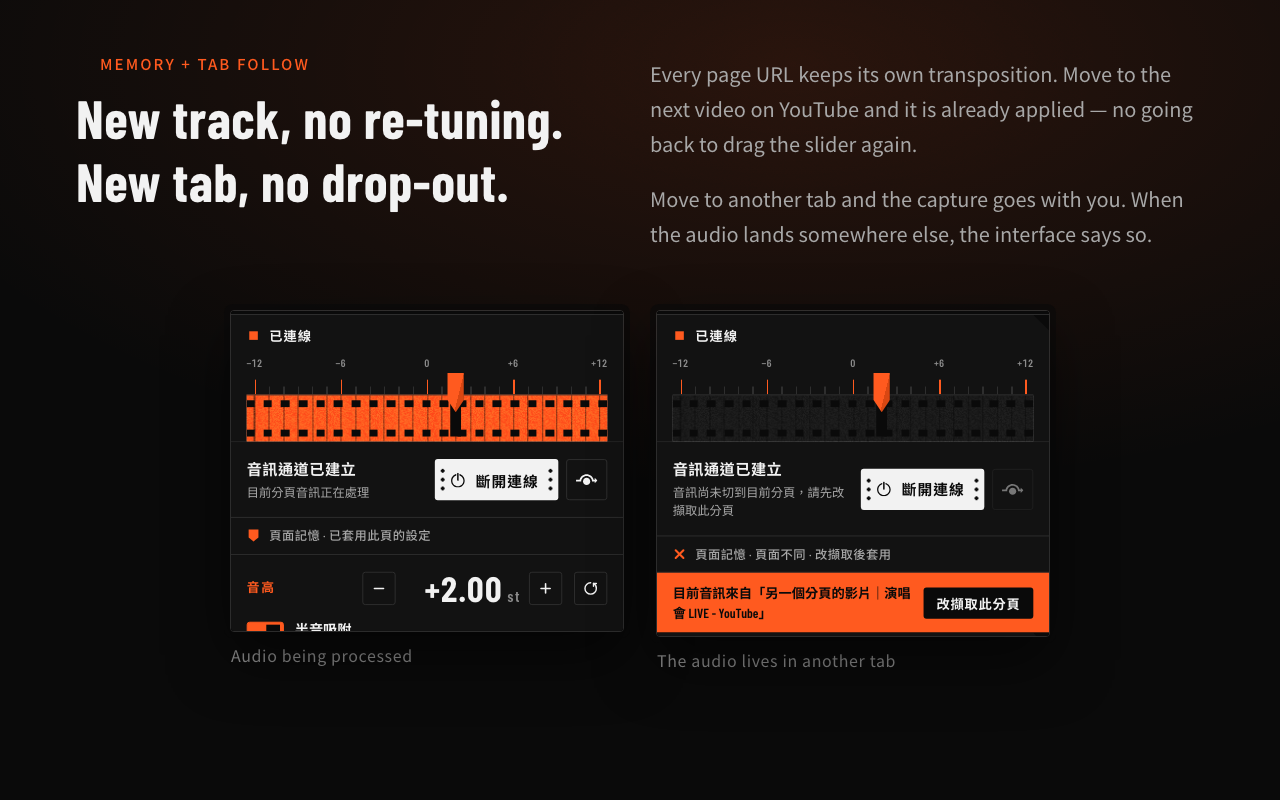
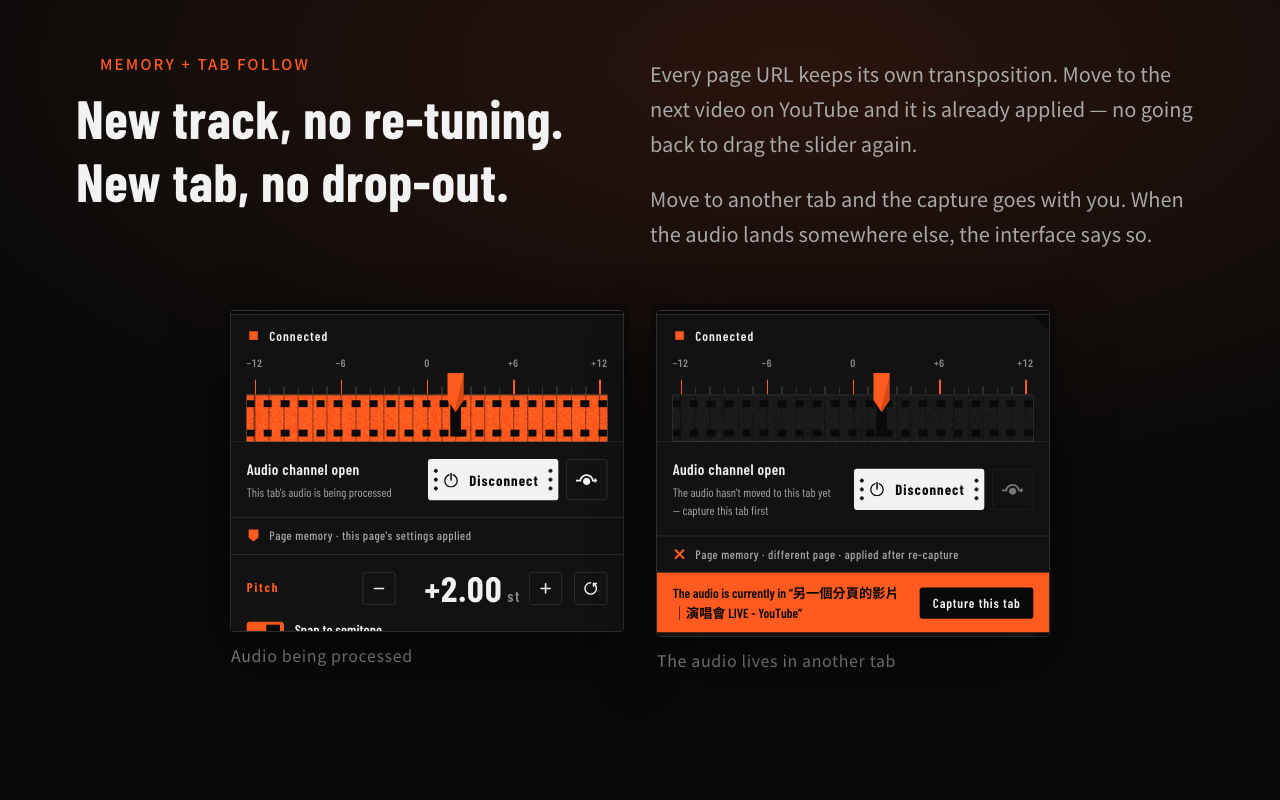
docs(readme): 兩份 README 重排，英文圖改用英文介面
## 英文版 README 之前配的是中文介面

上一個 commit（1e87a14）的結尾寫著「中英文各出一套圖，因為圖上的文案
不同。popup 本身在兩套圖裡都是中文介面：那是產品本身，不是漏翻譯。」
介面現在真的翻譯了，那句話連同它舉的理由一起失效——英文讀者拿到的是一張
他看不懂的語言的截圖。shots.mjs 的 POPUP_LANG 從單一值改成 per-locale
表，FIGURES[].render(locale) 把語系傳給每一個 iframe。

裁切矩形原本預期要重量，實測不必：英文與繁中的每一個段落邊界 y 座標完全
相同（header 0..50、rail 50..180、connection strip 180..257、memory
strip 257..295、pitch 295..431、signal 431..529、volume 529..703、
options 703..898）。那 18px 的高度差只出現在 disconnected，而四張圖都沒
用到它。這個前提已寫進 shots.mjs 的註解。

## GitHub 上確定會過的 HTML

align、style、class、id 全部被 sanitizer 剝掉，iframe 整個不過，所以
只用確定留下而且真的有用途的幾樣：

- `<a>` 包 `<img>`：**最大的實質改善**。GitHub 預設不讓圖片可點擊，
  讀者只能放大瀏覽器去細看。
- `<table>` 規格表：GitHub 把 table 縮到 max-content，窄表不會撐破版面。
- `<kbd>chrome://extensions</kbd>`：網址型字串本來就該長得像按鍵。
- `<details>` 收合開發指令表：參考性資料，不是承諾。

**刻意沒有**拿 `<details>` 收合「誠實的限制」。那個專案的第一條產品原則
是誠實呈報，把限制藏起來會牴觸它自己的說法。

## 順手修掉三個錯誤

兩份 README 都有三個描述與圖／現況不符的地方：

- 架構決策記錄寫「七份」，我加了 ADR-0008，現在是八份。
- transpose 那張的 alt 說「信號路徑顯示 Signalsmith」，但裁切框不包含
  信號路徑面板（裁切 y=432 結束，面板 y=431 才開始）。這是原本就有的錯。
- hero 的 alt 說「+3 半音」，但數值讀數在 y≈295，裁切只到 y=185。

英文版的 accompaniment alt 原本寫著中文——那是重新 render 成英文之後
才變成描述一張圖上不存在的內容。

## 順手補的

規格表加一列介面語言（English · 繁體中文 · 日本語），這是 i18n 最該被
看見的一點；更多區加上 docs/i18n-plan.md。`未處理` 補上英文對照
Not processed。

## 刪掉五張沒人引用的圖

docs/images/popup-*.png 五張 400px 純面板截圖沒有被任何檔案引用，而且
是 i18n 改動之前的建置截的。繁中面板視覺上沒變所以內容仍然正確，但嚴格
說是過期產物，留著只會誘使人引用。

diff --git a/README.md b/README.md
@@ -2,22 +2,53 @@
 
 # Fidelitone
 
-![The Fidelitone pitch rail, connected to a YouTube tab at +3 semitones](docs/images/readme-hero.png)
+<a href="docs/images/readme-hero.png">
+  <img src="docs/images/readme-hero.png" alt="Fidelitone's pitch rail, connected, with the folded tape flag marking the current transposition" />
+</a>
 
 Real-time pitch transposition for Chrome tabs. Shift a video or a song up or
 down in semitones without touching the tempo — for singing along, covers, KTV,
 anything where the track is in the wrong key.
 
 It is MIT licensed, and the audio never leaves your browser. Most of the audio
-processing is not mine either — see [What is actually mine](#what-is-actually-mine),
-because that distinction is the interesting part.
+processing is not mine either — see
+[What is actually mine](#what-is-actually-mine), because that distinction is the
+interesting part.
 
+<table>
+  <tr>
+    <td><b>License</b></td>
+    <td>MIT. The one bundled dependency, Signalsmith Stretch, is MIT as well.</td>
+  </tr>
+  <tr>
+    <td><b>Platform</b></td>
+    <td>Chrome MV3 — loaded unpacked, or unzipped from a Release.</td>
+  </tr>
+  <tr>
+    <td><b>Latency</b></td>
+    <td><b>~100 ms</b>, measured by <code>npm run latency</code> rather than estimated.</td>
+  </tr>
+  <tr>
+    <td><b>Interface</b></td>
+    <td>English · 繁體中文 · 日本語, following the browser's language.</td>
+  </tr>
+  <tr>
+    <td><b>Audio</b></td>
+    <td>Stays on the device. No server, no account, no analytics.</td>
+  </tr>
+  <tr>
+    <td><b>Permissions</b></td>
+    <td><code>tabCapture</code> · <code>offscreen</code> · <code>storage</code> — each justified in <a href="store/README.md">store/README.md</a>.</td>
+  </tr>
+</table>
 
 ## Features
 
 ### Time-domain pitch shifting
 
-![The pitch rail at −7 semitones, signal path reading Signalsmith](docs/images/readme-transpose.png)
+<a href="docs/images/readme-transpose.png">
+  <img src="docs/images/readme-transpose.png" alt="The pitch panel reading −7.00 semitones, connected, with this page's settings already applied" />
+</a>
 
 −12 to +12 semitones, tempo untouched, **~100 ms** measured latency. A
 time-domain stretcher rather than a phase vocoder, which is what keeps a large
@@ -26,7 +57,9 @@ transposition clean. The engine is borrowed; the honest split is in
 
 ### Accompaniment mode
 
-![Signal path reading 伴奏 / 低頻重取樣 ＋ 高頻時域拉伸, with the accompaniment switch on](docs/images/readme-accompaniment.png)
+<a href="docs/images/readme-accompaniment.png">
+  <img src="docs/images/readme-accompaniment.png" alt="Signal path reading ACCOMPANIMENT / Low band resampled + high band time-stretched, with the formant protection and accompaniment switches on" />
+</a>
 
 A 175 Hz crossover: above it the signal is stretched as usual, below it
 resampling moves a bass note's harmonics and a kick drum together instead of
@@ -35,7 +68,9 @@ this project.
 
 ### Per-page memory and tab following
 
-![Two tabs side by side: the one being processed, and the one the audio is actually in](docs/images/readme-memory.png)
+<a href="docs/images/readme-memory.png">
+  <img src="docs/images/readme-memory.png" alt="Two popups side by side: audio being processed in this tab, and the same audio living in another tab" />
+</a>
 
 Every page URL keeps its own settings, so the next video picks them up
 automatically, and moving to another tab takes the capture with you. When the
@@ -50,14 +85,13 @@ nothing.
 - Zero services. No account, no analytics, no network calls at all beyond an
   optional web font
 
-
 ## Install
 
 Grab the zip from [Releases](../../releases), or build one yourself with
 `npm run package`.
 
 1. Download `fidelitone-<version>.zip` and unzip it.
-2. Open `chrome://extensions` and turn on **Developer mode** (top right).
+2. Open <kbd>chrome://extensions</kbd> and turn on **Developer mode** (top right).
 3. **Load unpacked**, and pick the folder you just unzipped — the one that has
    `manifest.json` in it.
 
@@ -75,12 +109,27 @@ npm run build
 
 Then **Load unpacked** → `dist/`.
 
-For development: `npm test`, `npm run typecheck`, `npm run dev`. `npm run latency`
-measures the pitch engine in a browser, `npm run preview` serves the popup
-against a mocked `chrome.*` API, `npm run shots` regenerates the figures on this
-page. Pushing a `v*` tag builds the same zip and attaches it to a GitHub Release
-with its SHA-256.
+Pushing a `v*` tag builds the same zip and attaches it to a GitHub Release with
+its SHA-256.
 
+<details>
+<summary><b>Development commands</b></summary>
+
+| Command | What it does |
+| --- | --- |
+| `npm test` | The unit and characterization tests |
+| `npm run typecheck` | `tsc --noEmit` |
+| `npm run build` | Produces `dist/` |
+| `npm run dev` | The above, rebuilding on change |
+| `npm run preview` | Serves the popup against a mocked `chrome.*` API, so every state is reachable without a capture |
+| `npm run shots` | Regenerates the figures on this page, in both languages |
+| `npm run latency` | Measures the pitch engine in a real browser |
+| `npm run package` | Validates `dist/` and writes the release zip |
+
+`npm run preview` is worth knowing about: `?s=connected&yt=1&accom=1&pitch=-4`
+renders any popup state, and `&lang=ja-JP` renders it in Japanese.
+
+</details>
 
 ## What is actually mine
 
@@ -112,7 +161,6 @@ derived from the engine's 100 ms latency, and the two constants live in differen
 files with nothing enforcing the relationship. Nobody would have found that if
 the latency had not been measured. [ADR-0007](docs/adr/0007-single-pitch-engine.md)
 
-
 ## Honest limits
 
 Chrome imposes these. Fidelitone states them rather than pretending otherwise.
@@ -135,20 +183,20 @@ Chrome imposes these. Fidelitone states them rather than pretending otherwise.
   Chrome does not document tabCapture's input buffering, so a true end-to-end
   figure needs acoustic measurement this repo does not attempt.
 - **If the engine fails to start, your audio passes through unprocessed.** The
-  signal-path row says `未處理` rather than leaving a slider that appears to
-  work. That state was reached deliberately in testing by removing the worklet
-  file.
-
+  signal-path row says <code>Not processed</code> — <code>未處理</code> in the
+  Chinese interface — rather than leaving a slider that appears to work. That
+  state was reached deliberately in testing by removing the worklet file.
 
 ## More
 
-- [`docs/adr/`](docs/adr/) — seven architecture decision records, two of which
+- [`docs/adr/`](docs/adr/) — eight architecture decision records, two of which
   are reversals of features that shipped and were then deleted
 - [`docs/runtime-verification.md`](docs/runtime-verification.md) — what was
   actually run on real Chrome, and the numbers
+- [`docs/i18n-plan.md`](docs/i18n-plan.md) — how the three interface languages
+  are kept from drifting apart
 - [`CONTEXT.md`](CONTEXT.md) · [`PRODUCT.md`](PRODUCT.md) · [`DESIGN.md`](DESIGN.md) —
   vocabulary, product constraints, design system
-
 
 ## License
 
